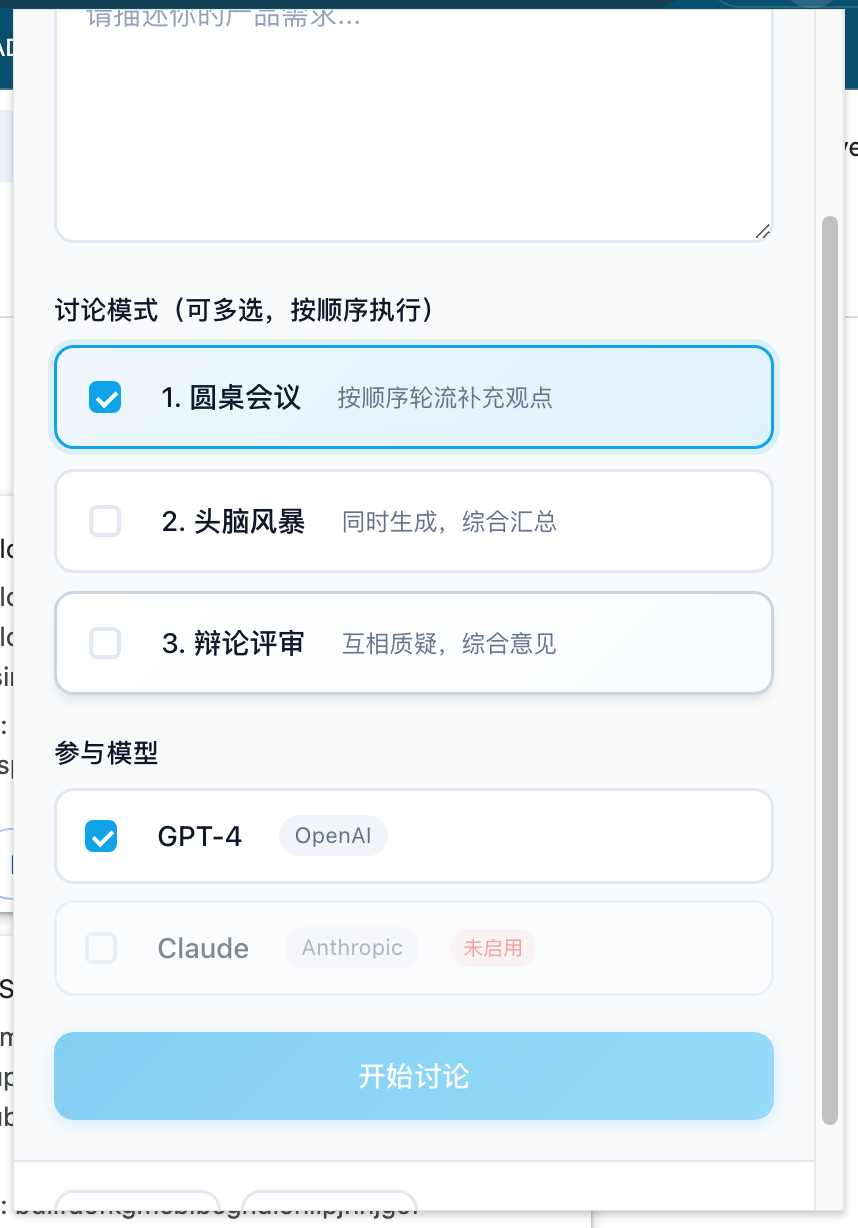
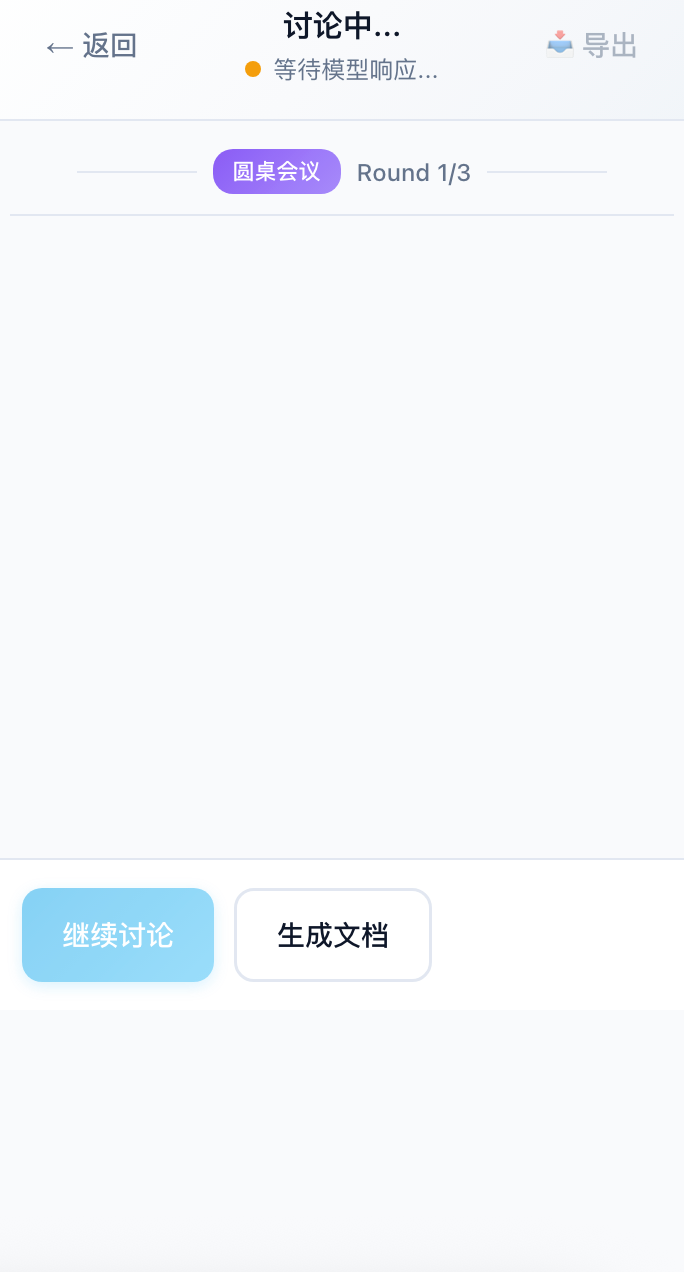
fix: 修复消息显示问题
- 移除流式消息发送机制（sidePanel 不支持）
- 改为直接返回结果并在前端渲染
- 简化消息处理逻辑

diff --git a/brainstorm_chat/background/background.js b/brainstorm_chat/background/background.js
@@ -29,16 +29,13 @@ const DiscussionEngine = {
 
     for (const model of models) {
       try {
-        sendStreamMessage(model.name, '', true); // 开始流式输出
         const response = await callModelAPI(model, systemPrompt, userPrompt);
-        sendStreamMessage(model.name, response, false); // 结束流式输出
         results.push({
           model: model.name,
           content: response
         });
       } catch (error) {
         console.error(`模型 ${model.name} 调用失败:`, error);
-        sendStreamMessage(model.name, `[错误] ${error.message}`, false);
         results.push({
           model: model.name,
           content: `[错误] ${error.message}`,
@@ -66,16 +63,13 @@ const DiscussionEngine = {
     // 并发调用所有模型
     const promises = models.map(async (model) => {
       try {
-        sendStreamMessage(model.name, '', true);
         const response = await callModelAPI(model, systemPrompt, userPrompt);
-        sendStreamMessage(model.name, response, false);
         return {
           model: model.name,
           content: response
         };
       } catch (error) {
         console.error(`模型 ${model.name} 调用失败:`, error);
-        sendStreamMessage(model.name, `[错误] ${error.message}`, false);
         return {
           model: model.name,
           content: `[错误] ${error.message}`,
@@ -112,16 +106,13 @@ ${previousMessages.map(m => `- ${m.model}: ${m.content.substring(0, 300)}...`).j
 
     for (const model of models) {
       try {
-        sendStreamMessage(model.name, '', true);
         const response = await callModelAPI(model, systemPrompt, userPrompt);
-        sendStreamMessage(model.name, response, false);
         results.push({
           model: model.name,
           content: response
         });
       } catch (error) {
         console.error(`模型 ${model.name} 调用失败:`, error);
-        sendStreamMessage(model.name, `[错误] ${error.message}`, false);
         results.push({
           model: model.name,
           content: `[错误] ${error.message}`,
@@ -135,20 +126,6 @@ ${previousMessages.map(m => `- ${m.model}: ${m.content.substring(0, 300)}...`).j
 };
 
 // 发送流式消息到 popup
-function sendStreamMessage(model, content, isThinking) {
-  // 发送消息到侧边栏
-  chrome.tabs.query({ active: true, currentWindow: true }, (tabs) => {
-    if (tabs[0]) {
-      chrome.tabs.sendMessage(tabs[0].id, {
-        type: 'STREAM_MESSAGE',
-        data: { model, content, isThinking }
-      }).catch(err => {
-        console.warn('发送消息失败:', err.message);
-      });
-    }
-  });
-}
-
 // 调用模型 API
 async function callModelAPI(model, systemPrompt, userPrompt) {
   if (!model.apiKey) {

diff --git a/brainstorm_chat/sidebar/sidebar.js b/brainstorm_chat/sidebar/sidebar.js
@@ -93,9 +93,7 @@
   // 设置消息监听
   function setupMessageListener() {
     chrome.runtime.onMessage.addListener((message, sender, sendResponse) => {
-      if (message.type === 'STREAM_MESSAGE') {
-        appendMessage(message.data);
-      } else if (message.type === 'ROUND_COMPLETE') {
+      if (message.type === 'ROUND_COMPLETE') {
         onRoundComplete();
       } else if (message.type === 'ERROR') {
         // 用户友好的错误消息
@@ -511,7 +509,27 @@
     };
 
     try {
-      await sendWithRetry();
+      const response = await sendWithRetry();
+
+      // 处理返回的消息
+      if (response && response.data && response.data.results) {
+        response.data.results.forEach(result => {
+          state.messages.push({
+            model: result.model,
+            content: result.content,
+            isThinking: false
+          });
+        });
+        renderDiscussionMessages();
+
+        // 保存到当前讨论
+        if (state.currentDiscussion) {
+          state.currentDiscussion.messages = [...state.messages];
+        }
+      }
+
+      // 标记当前轮完成
+      onRoundComplete();
     } catch (error) {
       showToast('连接失败，请刷新页面重试', 'error');
       state.isDiscussing = false;
